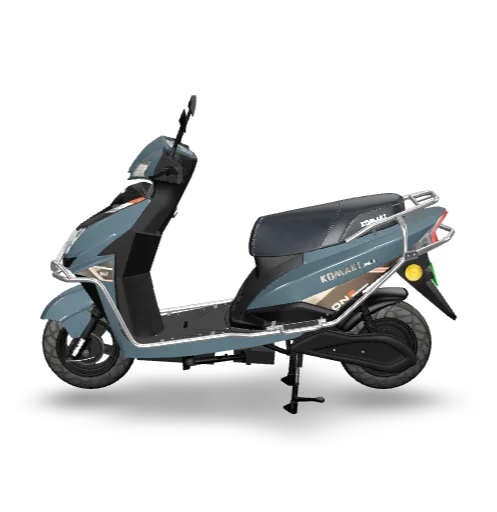
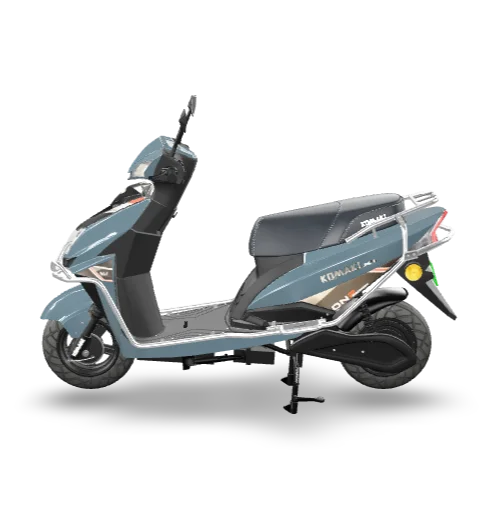
w

diff --git a/index.html b/index.html
@@ -9,7 +9,7 @@
   </head>
   <body>
     <!-- <model-viewer> HTML element -->
-    <model-viewer src="Komaki_X1_High_Poly_V6.glb" ar ar-modes="webxr scene-viewer quick-look" camera-controls tone-mapping="neutral" poster="poster.webp" shadow-intensity="1" exposure="1" environment-image="legacy">
+    <model-viewer src="Komaki_X1_High_Poly_V6.glb" ar ar-modes="webxr scene-viewer quick-look" camera-controls tone-mapping="neutral" poster="poster.webp" shadow-intensity="1" exposure="2">
       <div class="progress-bar hide" slot="progress-bar">
           <div class="update-bar"></div>
       </div>
